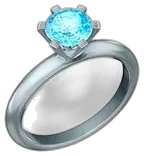
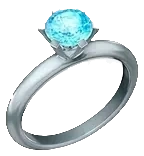
fix(ring): clean transparent background inside and outside; nick quest: copy button

diff --git a/src/components/rewards/TagQuestCard.tsx b/src/components/rewards/TagQuestCard.tsx
@@ -17,6 +17,7 @@ export function TagQuestCard() {
   const q = useTagQuestStore((s) => s.quest)
   const [now, setNow] = useState(() => Date.now())
   const [busy, setBusy] = useState(false)
+  const [copied, setCopied] = useState(false)
   const [note, setNote] = useState<{ ok: boolean; text: string } | null>(null)
 
   useEffect(() => {
@@ -27,6 +28,16 @@ export function TagQuestCard() {
   if (!q) return null
   const expired = q.expires_at !== null && now > q.expires_at
   const stage: 1 | 2 | 3 = !q.started_at || expired ? 1 : q.ready_at !== null && now >= q.ready_at ? 3 : 2
+
+  const copyTag = async () => {
+    try {
+      await navigator.clipboard.writeText(q.tag)
+      setCopied(true)
+      window.setTimeout(() => setCopied(false), 2500)
+    } catch {
+      setNote({ ok: false, text: `Не удалось скопировать — введите ${q.tag} вручную` })
+    }
+  }
 
   const act = async (action: 'start' | 'check' | 'claim') => {
     if (busy) return
@@ -78,6 +89,17 @@ export function TagQuestCard() {
         ))}
       </ol>
 
+      {stage === 1 && (
+        <div className={styles.copyRow}>
+          <button type="button" className={styles.btnGhost} onClick={() => void copyTag()}>
+            {copied ? '✓ Скопировано' : `Скопировать ${q.tag}`}
+          </button>
+          <p className={styles.copyHint}>
+            Telegram не даёт приложениям менять профиль сам. Скопируйте ник, откройте Настройки → Изменить профиль и
+            вставьте его в имя или в «О себе», затем вернитесь и нажмите «Готово».
+          </p>
+        </div>
+      )}
       {stage === 1 && (
         <button type="button" className={styles.btn} disabled={busy} onClick={() => void act('start')}>
           {busy ? 'Проверяем…' : 'Готово'}

diff --git a/src/components/rewards/TagQuestCard.module.css b/src/components/rewards/TagQuestCard.module.css
@@ -21,3 +21,5 @@
 .btn:disabled, .btnGhost:disabled { opacity: 0.55; cursor: wait; }
 .ok { margin: 0; font-size: 14px; font-weight: 600; color: #4fd18b; }
 .err { margin: 0; font-size: 14px; font-weight: 600; color: #ff7b82; }
+.copyRow { display: flex; flex-direction: column; gap: 8px; }
+.copyHint { margin: 0; font-size: 12.5px; line-height: 1.4; color: rgba(255, 255, 255, 0.55); }
